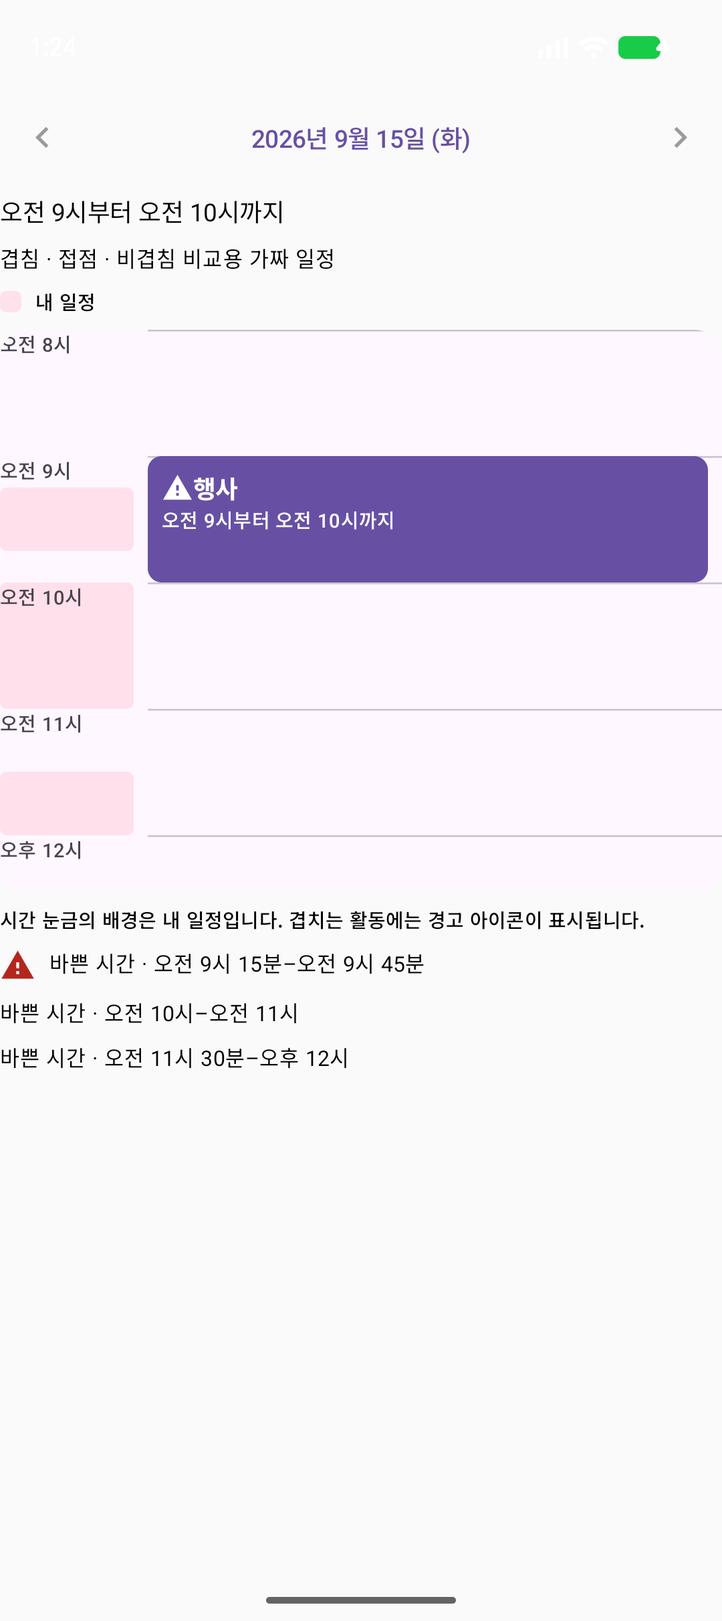
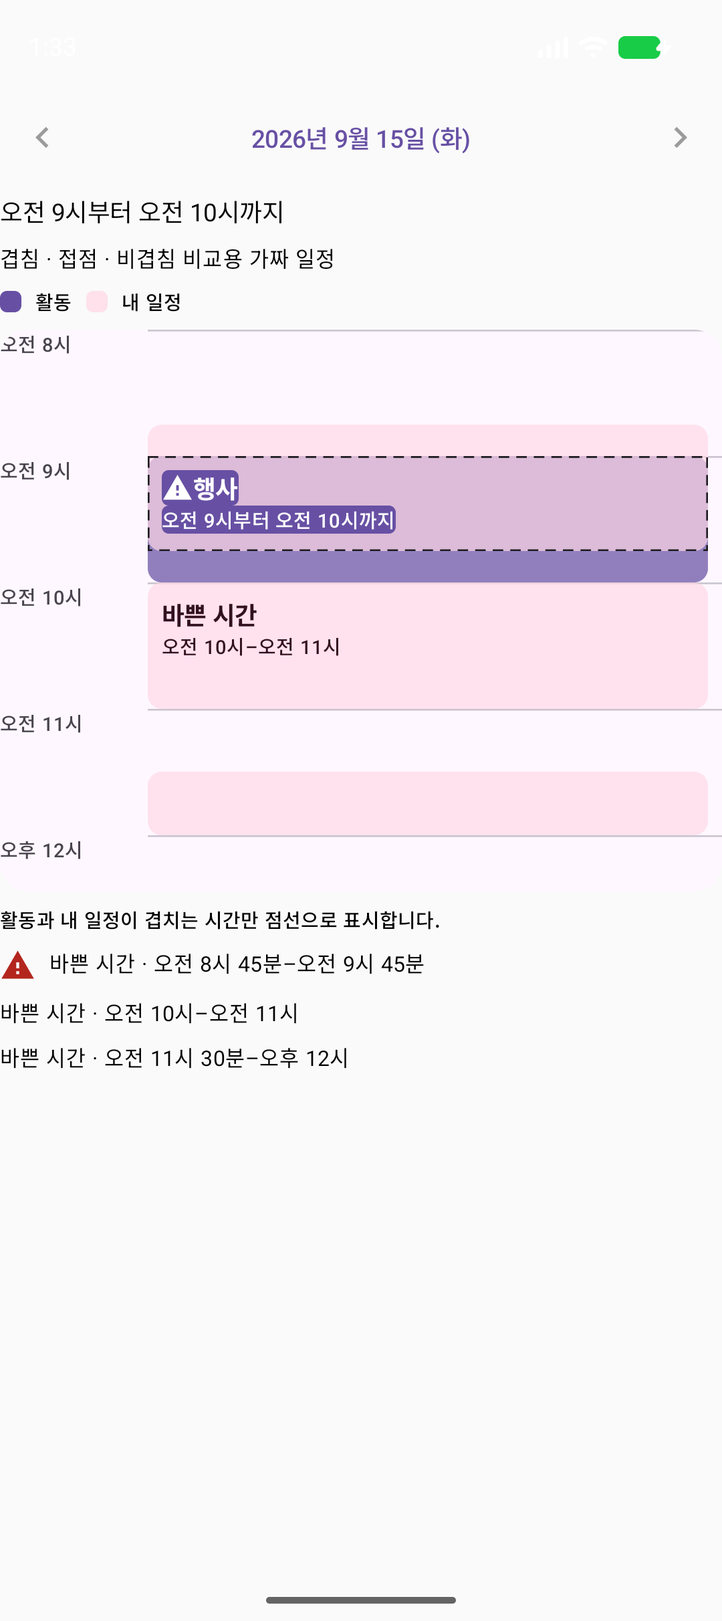
feat(android): overlay timeline colors with exact dashed intersections

diff --git a/apps/android/app/src/main/java/io/fixabley/dearby/shared/ui/TimelinePlot.kt b/apps/android/app/src/main/java/io/fixabley/dearby/shared/ui/TimelinePlot.kt
@@ -7,6 +7,7 @@ import androidx.compose.runtime.*
 import androidx.compose.ui.Alignment
 import androidx.compose.ui.Modifier
 import androidx.compose.ui.platform.LocalDensity
+import androidx.compose.ui.layout.onSizeChanged
 import androidx.compose.ui.platform.testTag
 import androidx.compose.ui.res.painterResource
 import io.fixabley.dearby.R
@@ -22,6 +23,7 @@ internal fun TimelinePlot(day: DayTimelineState, title: String, busy: List<BusyP
     val hour = 72.dp * density.fontScale
     val gutter = 84.dp // The hour label can wrap at large text instead of consuming the entire graph.
     val scroll = rememberScrollState()
+    var labelHeight by remember { mutableStateOf(80.dp * density.fontScale) }
     val actualHeight = hour * ((day.endMinute - day.startMinute) / 60f)
     val minimum = 64.dp * density.fontScale
     val enlarged = actualHeight < minimum
@@ -35,11 +37,6 @@ internal fun TimelinePlot(day: DayTimelineState, title: String, busy: List<BusyP
             val hasOverlap = busy.any { it.overlaps }
             val width = available
             Box(Modifier.fillMaxWidth().height(hour * (day.minutes / 60f) + minimum)) {
-                busy.forEach { block ->
-                    TimelineBusyBand(block, block.overlaps,
-                        Modifier.offset(y = hour * (block.startMinute / 60f)).width(gutter - Spacing.small)
-                            .height(maxOf(1.dp, hour * ((block.endMinute - block.startMinute) / 60f))))
-                }
                 day.ticks.forEach { tick ->
                     Row(Modifier.offset(y = hour * (tick.minute / 60f)).fillMaxWidth().clearAndSetSemantics {},
                         verticalAlignment = Alignment.Top) {
@@ -48,24 +45,45 @@ internal fun TimelinePlot(day: DayTimelineState, title: String, busy: List<BusyP
                         HorizontalDivider(color = MaterialTheme.colorScheme.outlineVariant)
                     }
                 }
-                Surface(color = MaterialTheme.colorScheme.primary, contentColor = MaterialTheme.colorScheme.onPrimary,
+                Surface(color = MaterialTheme.colorScheme.primary.copy(alpha = if (busy.isEmpty()) 1f else 0.72f),
                     shape = MaterialTheme.shapes.small,
                     modifier = Modifier.offset(x = gutter, y = hour * (day.startMinute / 60f))
-                        .width(width).height(maxOf(actualHeight, minimum)).testTag("timeline.block")
-                        .clearAndSetSemantics { contentDescription = "$title. ${day.description}" + (if (enlarged) ". 짧은 구간 확대 표시" else "") + if (hasOverlap) ". 기기 바쁜 시간과 겹침" else "" }) {
-                    Column(Modifier.padding(Spacing.small)) {
-                        Row(verticalAlignment = Alignment.CenterVertically) {
-                            if (hasOverlap) Icon(painterResource(R.drawable.ic_warning), null, Modifier.size(18.dp).testTag("activity.warning"))
-                            Text(title, style = MaterialTheme.typography.labelLarge, fontWeight = FontWeight.Bold,
+                        .width(width).height(maxOf(actualHeight, minimum))) {}
+                busy.forEach { block ->
+                    val top = hour * (block.startMinute / 60f)
+                    val bottom = hour * (block.endMinute / 60f)
+                    val activityTop = hour * (day.startMinute / 60f)
+                    val protectedEnd = activityTop + labelHeight + Spacing.small
+                    val labelTop = if (top < protectedEnd && bottom > activityTop) maxOf(top + Spacing.small, protectedEnd) else top + Spacing.small
+                    val labelOffset = (labelTop - top).takeIf { labelTop + 64.dp * density.fontScale <= bottom }
+                    TimelineBusyBlock(block, labelOffset, Modifier.offset(x = gutter, y = top)
+                        .width(width).height(maxOf(1.dp, bottom - top)))
+
+                }
+                Box(Modifier.offset(x = gutter, y = hour * (day.startMinute / 60f)).width(width)
+                    .testTag("timeline.block").clearAndSetSemantics {
+                        contentDescription = "$title. ${day.description}" + (if (enlarged) ". 짧은 구간 확대 표시" else "") + if (hasOverlap) ". 기기 바쁜 시간과 겹침" else ""
+                    }) {
+                    Column(Modifier.testTag("activity.label").onSizeChanged { labelHeight = with(density) { it.height.toDp() } }.padding(Spacing.small)) {
+                        Row(Modifier.background(MaterialTheme.colorScheme.primary, MaterialTheme.shapes.extraSmall), verticalAlignment = Alignment.CenterVertically) {
+                            if (hasOverlap) Icon(painterResource(R.drawable.ic_warning), null, Modifier.size(18.dp).testTag("activity.warning"), tint = MaterialTheme.colorScheme.onPrimary)
+                            Text(title, color = MaterialTheme.colorScheme.onPrimary, style = MaterialTheme.typography.labelLarge, fontWeight = FontWeight.Bold,
                                 maxLines = 2, overflow = TextOverflow.Ellipsis)
                         }
-                        Text(day.timeText, style = MaterialTheme.typography.labelSmall, maxLines = 2, overflow = TextOverflow.Ellipsis)
+                        Text(day.timeText, Modifier.background(MaterialTheme.colorScheme.primary, MaterialTheme.shapes.extraSmall), color = MaterialTheme.colorScheme.onPrimary, style = MaterialTheme.typography.labelSmall, maxLines = 2, overflow = TextOverflow.Ellipsis)
+                    }
+                }
+                busy.forEach { block ->
+                    if (block.overlapStartMinute != null && block.overlapEndMinute != null) {
+                        TimelineIntersectionOutline(block.description,
+                            Modifier.offset(x = gutter, y = hour * (block.overlapStartMinute / 60f)).width(width)
+                                .height(hour * ((block.overlapEndMinute - block.overlapStartMinute) / 60f)))
                     }
                 }
             }
         }
     }
-    if (busy.isNotEmpty()) Text("시간 눈금의 배경은 내 일정입니다. 겹치는 활동에는 경고 아이콘이 표시됩니다.", style = MaterialTheme.typography.labelSmall)
+    if (busy.isNotEmpty()) Text("활동과 내 일정이 겹치는 시간만 점선으로 표시합니다.", style = MaterialTheme.typography.labelSmall)
     if (enlarged) Text("짧은 구간은 블록을 확대해 표시합니다. 정확한 시간은 위 안내를 확인해 주세요.",
         style = MaterialTheme.typography.bodySmall, color = MaterialTheme.colorScheme.onSurfaceVariant)
 }

diff --git a/apps/android/app/src/androidTest/java/io/fixabley/dearby/BusyTimelineDisplayTest.kt b/apps/android/app/src/androidTest/java/io/fixabley/dearby/BusyTimelineDisplayTest.kt
@@ -21,7 +21,7 @@ class BusyTimelineDisplayTest {
     private fun at(time: String) = ZonedDateTime.parse("2026-09-15T$time+09:00[Asia/Seoul]").toInstant()
     @Test fun onlyPositiveIntersectionWarnsAndActivityRetainsFullWidth() {
         val interval = TimelineInterval(at("09:00:00"), at("10:00:00"), zone)
-        val busy = listOf(BusyInterval(at("09:15:00"), at("09:45:00")),
+        val busy = listOf(BusyInterval(at("08:45:00"), at("09:45:00")),
             BusyInterval(at("10:00:00"), at("11:00:00")), BusyInterval(at("11:30:00"), at("12:00:00")))
         rule.setContent { DearbyTheme(dynamicColor = false) {
             Column(Modifier.safeDrawingPadding().verticalScroll(rememberScrollState())) {
@@ -32,7 +32,12 @@ class BusyTimelineDisplayTest {
         rule.onAllNodesWithTag("activity.warning", useUnmergedTree = true).assertCountEquals(1)
         val blocks = rule.onAllNodesWithTag("busy.block").fetchSemanticsNodes()
         assertEquals(blocks[0].boundsInRoot.width, blocks[1].boundsInRoot.width, 1f)
-        assertTrue(rule.onNodeWithTag("timeline.block").fetchSemanticsNode().boundsInRoot.width > blocks[0].boundsInRoot.width * 2)
+        assertEquals(rule.onNodeWithTag("timeline.block").fetchSemanticsNode().boundsInRoot.width, blocks[0].boundsInRoot.width, 1f)
+        rule.onAllNodesWithTag("timeline.intersection").assertCountEquals(1)
+        val dashed = rule.onNodeWithTag("timeline.intersection").fetchSemanticsNode().boundsInRoot
+        assertTrue(dashed.top > blocks[0].boundsInRoot.top)
+        assertEquals(blocks[0].boundsInRoot.bottom, dashed.bottom, 1f)
+        assertEquals(blocks[0].boundsInRoot.height * 0.75f, dashed.height, 1f)
         assertEquals(blocks[1].boundsInRoot.width, blocks[2].boundsInRoot.width, 1f)
         rule.onAllNodesWithTag("busy.block")[1].assertContentDescriptionContains("활동과 겹치지 않음", substring = true)
         rule.waitForIdle()
@@ -51,6 +56,7 @@ class BusyTimelineDisplayTest {
             }
         } }
         rule.onAllNodesWithTag("activity.warning", useUnmergedTree = true).assertCountEquals(0)
+        rule.onAllNodesWithTag("timeline.intersection").assertCountEquals(0)
         rule.onNodeWithTag("busy.block").assertContentDescriptionContains("활동과 겹치지 않음", substring = true)
     }
     @Test fun dateChangeNeverShowsPreviousWindowResult() {
@@ -66,6 +72,20 @@ class BusyTimelineDisplayTest {
         rule.onNodeWithText("이전 날짜 겹침").assertDoesNotExist()
         rule.onNodeWithText("선택 날짜의 바쁜 시간을 확인하는 중이에요.").assertExists()
         rule.onAllNodesWithTag("busy.block").assertCountEquals(0)
+    }
+
+    @Test fun busyLabelCannotCoverLongActivityTitle() {
+        val title = "긴 활동 제목 · 현장 설명회와 질의응답 및 참여 방법을 함께 안내합니다"
+        val interval = TimelineInterval(at("09:00:00"), at("12:00:00"), zone)
+        rule.setContent { DearbyTheme {
+            Column(Modifier.safeDrawingPadding()) {
+                DayTimeline(interval, title, busy = BusyOverlayState("겹침", listOf(BusyInterval(at("09:00:00"), at("11:30:00")))))
+            }
+        } }
+        rule.onNodeWithTag("timeline.block").assertContentDescriptionContains(title, substring = true)
+        val activity = rule.onNodeWithTag("activity.label", useUnmergedTree = true).fetchSemanticsNode().boundsInRoot
+        val label = rule.onNodeWithTag("busy.label", useUnmergedTree = true).fetchSemanticsNode().boundsInRoot
+        assertTrue(label.top >= activity.bottom)
     }
 
 }

diff --git a/apps/android/app/src/main/java/io/fixabley/dearby/shared/ui/TimelineBusyBlock.kt b/apps/android/app/src/main/java/io/fixabley/dearby/shared/ui/TimelineBusyBlock.kt
@@ -1,0 +1,31 @@
+package io.fixabley.dearby.shared.ui
+
+import androidx.compose.foundation.layout.*
+import androidx.compose.material3.*
+import androidx.compose.runtime.Composable
+import androidx.compose.ui.Modifier
+import androidx.compose.ui.platform.testTag
+import androidx.compose.ui.semantics.*
+import androidx.compose.ui.text.font.FontWeight
+import androidx.compose.ui.text.style.TextOverflow
+import androidx.compose.ui.unit.Dp
+import androidx.compose.ui.unit.dp
+
+/** Body overlay. Labels use unoccupied vertical space; the adjacent summary is always complete. */
+@Composable
+internal fun TimelineBusyBlock(block: BusyPlotBlock, labelOffset: Dp?, modifier: Modifier) {
+    Surface(color = MaterialTheme.colorScheme.tertiaryContainer.copy(alpha = 0.68f),
+        shape = MaterialTheme.shapes.small,
+        modifier = modifier.testTag("busy.block").clearAndSetSemantics {
+            contentDescription = block.description + if (block.overlaps) ". 활동과 겹침" else ". 활동과 겹치지 않음"
+        }) {
+        labelOffset?.let { offset ->
+            Column(Modifier.padding(top = offset).testTag("busy.label").padding(horizontal = 8.dp)) {
+                Text("바쁜 시간", color = MaterialTheme.colorScheme.onTertiaryContainer,
+                    style = MaterialTheme.typography.labelLarge, fontWeight = FontWeight.Bold)
+                Text(block.timeText, color = MaterialTheme.colorScheme.onTertiaryContainer,
+                    style = MaterialTheme.typography.labelSmall, maxLines = 2, overflow = TextOverflow.Ellipsis)
+            }
+        }
+    }
+}

diff --git a/apps/android/app/src/test/java/io/fixabley/dearby/TimelineIntersectionTest.kt b/apps/android/app/src/test/java/io/fixabley/dearby/TimelineIntersectionTest.kt
@@ -1,0 +1,29 @@
+package io.fixabley.dearby
+
+import io.fixabley.dearby.shared.ui.*
+import java.time.Instant
+import org.junit.Assert.*
+import org.junit.Test
+
+class TimelineIntersectionTest {
+    private fun at(seconds: Long) = Instant.EPOCH.plusSeconds(seconds)
+    @Test fun partialAndContainingIntervalsClipOnlyTheirSharedTime() {
+        val activity = BusyInterval(at(9), at(12))
+        assertEquals(BusyInterval(at(9), at(10)), timelineIntersection(activity, BusyInterval(at(8), at(10))))
+        assertEquals(activity, timelineIntersection(activity, BusyInterval(at(8), at(13))))
+        assertEquals(BusyInterval(at(10), at(11)), timelineIntersection(activity, BusyInterval(at(10), at(11))))
+    }
+    @Test fun disjointAndTouchDoNotIntersectButNanosecondOverlapDoes() {
+        val activity = BusyInterval(at(9), at(12))
+        assertNull(timelineIntersection(activity, BusyInterval(at(12), at(13))))
+        assertNull(timelineIntersection(activity, BusyInterval(at(13), at(14))))
+        val short = BusyInterval(at(12).minusNanos(1), at(12))
+        assertEquals(short, timelineIntersection(activity, short))
+    }
+    @Test fun clippingAndUnionPreserveIntersectionAcrossMidnight() {
+        val window = BusyInterval(at(0), at(86400))
+        val union = mergedBusy(listOf(BusyInterval(at(-3600), at(3600)), BusyInterval(at(1800), at(7200))), window)
+        assertEquals(listOf(BusyInterval(at(0), at(7200))), union)
+        assertEquals(BusyInterval(at(0), at(3600)), timelineIntersection(union.single(), BusyInterval(at(-1), at(3600))))
+    }
+}

diff --git a/apps/android/app/src/main/java/io/fixabley/dearby/shared/ui/DayTimeline.kt b/apps/android/app/src/main/java/io/fixabley/dearby/shared/ui/DayTimeline.kt
@@ -36,9 +36,11 @@ internal fun DayTimeline(interval: TimelineInterval, title: String, modifier: Mo
             val time = "${koreanTime(start.toLocalTime())}–" +
                 (if (it.end == window.end) "다음 날 오전 12시" else koreanTime(end.toLocalTime()))
             val offset = if (start.offset != end.offset) " (${start.offset} → ${end.offset})" else ""
+            val intersection = timelineIntersection(it, BusyInterval(interval.start, interval.end))
+            fun minute(value: java.time.Instant) = java.time.Duration.between(dayStart, value).toNanos() / 60_000_000_000f
             BusyPlotBlock(java.time.Duration.between(dayStart, it.start).toNanos() / 60_000_000_000f,
                 java.time.Duration.between(dayStart, it.end).toNanos() / 60_000_000_000f,
-                "바쁜 시간: $time$offset. $date, 시간대 ${interval.zone.id}, 종료 시각 제외", time + offset, busyOverlaps(listOf(it), BusyInterval(interval.start, interval.end)))
+                "바쁜 시간: $time$offset. $date, 시간대 ${interval.zone.id}, 종료 시각 제외", time + offset, intersection != null, intersection?.start?.let(::minute), intersection?.end?.let(::minute))
         }
         if (currentBusy != null) TimelineLegend()
         TimelinePlot(day, title, blocks)

diff --git a/apps/android/app/src/androidTest/java/io/fixabley/dearby/BusyCalendarFlowTest.kt b/apps/android/app/src/androidTest/java/io/fixabley/dearby/BusyCalendarFlowTest.kt
@@ -30,7 +30,7 @@ class BusyCalendarFlowTest {
         override fun permission() = access
         override suspend fun read(query: BusyQuery): List<BusyInterval> {
             queries.add(query)
-            return listOf(BusyInterval(query.activity.start, minOf(query.activity.end, query.activity.start.plusSeconds(5400))))
+            return listOf(BusyInterval(query.activity.start, minOf(query.activity.end, query.activity.start.plusSeconds(9000))))
         }
     }
     private fun show(fake: Fake, dark: Boolean = false, large: Boolean = false) {
@@ -96,6 +96,7 @@ class BusyCalendarFlowTest {
         rule.onNodeWithTag("notice.detail").performScrollToNode(hasTestTag("schedule.title.0"))
         rule.onNodeWithTag("schedule.timeline.0").performScrollTo()
         rule.onAllNodesWithTag("busy.block").assertCountEquals(0)
+        rule.onAllNodesWithTag("timeline.intersection").assertCountEquals(0)
         rule.onAllNodesWithTag("activity.warning", useUnmergedTree = true).assertCountEquals(0)
         capture("hidden-$suffix")
     }

diff --git a/apps/android/app/src/main/java/io/fixabley/dearby/shared/ui/TimelineIntersectionOutline.kt b/apps/android/app/src/main/java/io/fixabley/dearby/shared/ui/TimelineIntersectionOutline.kt
@@ -1,0 +1,23 @@
+package io.fixabley.dearby.shared.ui
+
+import androidx.compose.foundation.Canvas
+import androidx.compose.material3.MaterialTheme
+import androidx.compose.runtime.Composable
+import androidx.compose.ui.Modifier
+import androidx.compose.ui.draw.clipToBounds
+import androidx.compose.ui.graphics.PathEffect
+import androidx.compose.ui.graphics.drawscope.Stroke
+import androidx.compose.ui.platform.testTag
+import androidx.compose.ui.semantics.clearAndSetSemantics
+import androidx.compose.ui.semantics.contentDescription
+import androidx.compose.ui.unit.dp
+
+@Composable
+internal fun TimelineIntersectionOutline(description: String, modifier: Modifier) {
+    val color = MaterialTheme.colorScheme.onSurface
+    Canvas(modifier.clipToBounds().testTag("timeline.intersection").clearAndSetSemantics {
+        contentDescription = "실제 겹치는 구간. $description"
+    }) {
+        drawRect(color, style = Stroke(2.dp.toPx(), pathEffect = PathEffect.dashPathEffect(floatArrayOf(6.dp.toPx(), 4.dp.toPx()))))
+    }
+}

diff --git a/apps/android/app/src/main/java/io/fixabley/dearby/shared/ui/BusyDisplayState.kt b/apps/android/app/src/main/java/io/fixabley/dearby/shared/ui/BusyDisplayState.kt
@@ -3,4 +3,4 @@ package io.fixabley.dearby.shared.ui
 internal data class BusyDisplayState(val enabled: Boolean = false, val message: String = "기기 캘린더 연결 안 됨",
     val consent: Boolean = false, val requesting: Boolean = false, val settings: Boolean = false)
 internal data class BusyOverlayState(val message: String, val intervals: List<BusyInterval> = emptyList(), val window: BusyInterval? = null)
-internal data class BusyPlotBlock(val startMinute: Float, val endMinute: Float, val description: String, val timeText: String, val overlaps: Boolean)
+internal data class BusyPlotBlock(val startMinute: Float, val endMinute: Float, val description: String, val timeText: String, val overlaps: Boolean, val overlapStartMinute: Float? = null, val overlapEndMinute: Float? = null)

diff --git a/apps/android/app/src/main/java/io/fixabley/dearby/shared/ui/TimelineLegend.kt b/apps/android/app/src/main/java/io/fixabley/dearby/shared/ui/TimelineLegend.kt
@@ -13,6 +13,8 @@ import io.fixabley.dearby.shared.ui.theme.Spacing
 @Composable
 internal fun TimelineLegend() {
     Row(horizontalArrangement = Arrangement.spacedBy(Spacing.small), verticalAlignment = Alignment.CenterVertically) {
+        Box(Modifier.size(12.dp).background(MaterialTheme.colorScheme.primary, MaterialTheme.shapes.extraSmall))
+        Text("활동", style = MaterialTheme.typography.labelSmall)
         Box(Modifier.size(12.dp).background(MaterialTheme.colorScheme.tertiaryContainer.copy(alpha = 0.75f), MaterialTheme.shapes.extraSmall))
         Text("내 일정", style = MaterialTheme.typography.labelSmall)
     }

diff --git a/apps/android/app/src/main/java/io/fixabley/dearby/shared/ui/TimelineIntersection.kt b/apps/android/app/src/main/java/io/fixabley/dearby/shared/ui/TimelineIntersection.kt
@@ -1,0 +1,8 @@
+package io.fixabley.dearby.shared.ui
+
+/** Exact half-open intersection; drawing minimum heights never participate. */
+internal fun timelineIntersection(first: BusyInterval, second: BusyInterval): BusyInterval? {
+    val start = maxOf(first.start, second.start)
+    val end = minOf(first.end, second.end)
+    return if (end > start) BusyInterval(start, end) else null
+}

diff --git a/apps/android/docs/calendar-busy/VERIFICATION.md b/apps/android/docs/calendar-busy/VERIFICATION.md
@@ -1,44 +1,41 @@
-# #10 Android 검증 · 2026-09-15
+# #10 Android 최신 시각 검증 · 2026-09-15
 
-최종 UI는 시간 눈금 뒤 내 일정 반투명 배경 + 전체 너비 활동 + 실제 교집합 경고다. PR9 이전 결과와 중간 두 열 디자인의 결과를 최신 증거로 사용하지 않는다.
+최종 형태는 **시간축 본문의 Primary 활동 + 반투명 tertiary 배색 내 일정 + 실제 교집합 구간만 점선**이다. 경고 아이콘과 ON/OFF/동의를 유지한다. 시간 gutter/우측 lane/두열 디자인의 PNG는 최신 증거에서 교체했다. 상세 날짜·요일 / 다음 줄 시간 구조를 유지하며 한국 시간 중복 라벨만 제거했다.
 
-## 이번 실행
+## 이번 후속 작업에서 실행
 
-- JVM **13개 통과**: BusySession 5, BusyInterval 4, 기존 DayTimeline 4를 이번 변경에서 재실행. 동의 취소/거절/제한/성공빈결과/조회실패/철회/백그라운드/화면종료/OFF/비협조적 지연 결과/선택일 stale/복수phase 단일세션, strict half-open overlap/merge/clip, floating 종일·서울·LA 23/25시간 DST·다른 source-zone 날짜·자정 종료를 확인했다.
-- 전용 **emulator-5556 API36.1 계측 12개 통과**: AndroidBusyProvider 3, BusyCalendarFlow 3, BusyTimelineDisplay 3, 기존 DayTimeline 3. 최종 1배 run에서 11개, 실제 system font_scale=2.0의 dark detail run에서 1개를 실행했다. 이후 VISIBLE 필터 제거 관련 provider 3개를 별도 재실행했고 통과했다(중복 합산하지 않음).
-- Provider 테스트는 in-memory SQLite 숫자 fixture/query hook만 사용한다. NULL/tentative/숨긴 캘린더 보존, free/canceled/self-declined 제외, projection 6개 숫자 필드, timed/floating 쿼리 범위, IO 스레드, null cursor 실패, CancellationSignal 전달을 검증했다.
-- UI는 fake provider/permission callback만 사용한다. OFF→동의→취소→거절에서 query=0, 허용 fake ON→활동 선택일 변경/겹침→OFF에서 gutter 배경/경고 제거를 확인했다. 신청은 비교에 등록하지 않는다. 접점·비겹침에는 경고가 없고, 짧은 활동의 확대 높이가 가짜 경고를 만들지 않는다. 날짜를 바꾸면 이전 window의 결과를 표시하지 않는다.
-- Debug APK/AndroidTest APK 빌드 성공. lintDebug **오류0 / 기존 경고12**. FSD **92파일 / self-test24 통과**. git diff --check 통과. minSdk31 및 toolchain/의존성 유지.
+- `TimelineIntersectionTest` JVM **3개 통과**: 부분교집합/포함/불포함/끝-시작 접점/나노초 양의 교집합/자정 clip 및 union. 점선 계산에 최소 시각 높이를 넣지 않는다.
+- 전용5556 계측 **8개 통과**: BusyTimelineDisplayTest 4(본문 동일 x/폭, 08:45–09:45 busy 중 09:00–09:45만 점선임을 위치/높이로 검증, 접점/short 무경고·무점선, 이전 window 숨김, 긴 활동 제목과 busy 문구의 세로영역 비중첩), BusyCalendarFlowTest 3(OFF/동의취소/fake거절, light 선택일/OFF, 실제2배 dark 선택일/OFF), DetailTimezoneTest 1(한국 라벨 없음/원본 시각 AX/Europe-London 표시 유지).
+- Debug APK 및 AndroidTest APK compile/build 성공. FSD **94파일 / self-test24 통과**, git diff --check 통과. 이번 요청은 표시 변경이므로 provider/권한 전체 suite와 lint 전체를 재실행하지 않았다.
+- 이번 변경은 Shared 표시/관련 Page의 라벨/테스트/문서만 포함한다. feature provider/session, permission, cache, favorites, source, export, map 코드는 수정하지 않았다.
 
-명령(자기 checkout):
+명령의 환경은 JAVA_HOME=/Applications/Android Studio.app/Contents/jbr/Contents/Home, ANDROID_HOME=/Users/jominjun/Library/Android/sdk, ANDROID_SERIAL=emulator-5556이다.
 
 ```sh
-JAVA_HOME='/Applications/Android Studio.app/Contents/jbr/Contents/Home' ANDROID_HOME=/Users/jominjun/Library/Android/sdk ./apps/android/gradlew -p apps/android :app:testDebugUnitTest --tests '*Busy*' --tests '*DayTimelineTest' :app:assembleDebug :app:lintDebug
-ANDROID_SERIAL=emulator-5556 ./apps/android/gradlew -p apps/android :app:connectedDebugAndroidTest -Pandroid.testInstrumentationRunnerArguments.class=<아래 클래스 또는 메서드> -Pandroid.injected.androidTest.leaveApksInstalledAfterRun=true
+./apps/android/gradlew -p apps/android :app:testDebugUnitTest --tests '*TimelineIntersectionTest' :app:assembleDebug
+./apps/android/gradlew -p apps/android :app:connectedDebugAndroidTest -Pandroid.testInstrumentationRunnerArguments.class=io.fixabley.dearby.BusyTimelineDisplayTest,io.fixabley.dearby.BusyCalendarFlowTest,io.fixabley.dearby.DetailTimezoneTest -Pandroid.injected.androidTest.leaveApksInstalledAfterRun=true
 python3 apps/android/scripts/check-fsd.py --self-test
 ```
 
-클래스: `io.fixabley.dearby.features.calendarbusy.AndroidBusyProviderTest`, `io.fixabley.dearby.BusyTimelineDisplayTest`, `io.fixabley.dearby.DayTimelineTest`; `BusyCalendarFlowTest#offConsentCancelDeniedNeverQueries`, `#selectedActivityDayOverlapLight`를 1배에서 실행하고 `#selectedActivityDayOverlapDarkLarge`는 실제 font_scale2.0에서 실행했다. 각 실행의 JAVA_HOME/ANDROID_HOME은 첫 줄과 동일하다.
+계측은 관련 클래스/메서드를 나눠 실행했다. BusyCalendarFlowTest의 dark 메서드는 실제 system font_scale=2.0으로 실행하고 1.0으로 복원했다. ModalBottomSheet에서 LocalDensity만 바꾼 캡처를 큰글자 증거로 사용하지 않았다.
 
-## 대표 PNG · 가짜 익명 일정
-
-모두 전용5556에서 실제 렌더링을 캡처했다. 큰글자 시트는 실제 system font_scale2.0을 사용했다. Compose LocalDensity만 바꾼 중간 캡처는 최종 PNG로 남기지 않았다.
+## 최신 실제 렌더링 PNG · 모두 fake provider
 
 | 상태 | 증거 |
 |---|---|
 | 연결 전 OFF | [off-light](screenshots/busy-evidence/off-light.png) |
-| 목적 안내 | [consent-light](screenshots/busy-evidence/consent-light.png) |
-| 동의 취소 | [cancel-light](screenshots/busy-evidence/cancel-light.png) |
-| fake 권한 거절 | [denied-light](screenshots/busy-evidence/denied-light.png) |
-| ON 겹침/시간눈금 배경 | [busy-light](screenshots/busy-evidence/busy-light.png) |
+| 목적 안내 / 동의 취소 / fake 거절 | [consent](screenshots/busy-evidence/consent-light.png), [cancel](screenshots/busy-evidence/cancel-light.png), [denied](screenshots/busy-evidence/denied-light.png) |
+| 본문 배색 + 점선 | [busy-light](screenshots/busy-evidence/busy-light.png) |
 | 선택일 다음날 | [next-day-light](screenshots/busy-evidence/next-day-light.png) |
 | dark 실제2배 | [busy-dark-2x](screenshots/busy-evidence/busy-dark-2x.png) |
 | dark 실제2배 다음날 | [next-day-dark-2x](screenshots/busy-evidence/next-day-dark-2x.png) |
-| 겹침09:15–09:45 / 접점10–11 / 비겹침11:30–12 | [boundaries-light](screenshots/busy-evidence/boundaries-light.png) |
-| OFF 후 활동: 배경/경고 제거 | [hidden-light](screenshots/busy-evidence/hidden-light.png) |
+| 부분교집합/접점/비겹침 | [boundaries-light](screenshots/busy-evidence/boundaries-light.png) |
+| OFF 후 블록·점선·경고 제거 | [hidden-light](screenshots/busy-evidence/hidden-light.png), [hidden-dark-2x](screenshots/busy-evidence/hidden-dark-2x.png) |
 
-## 보존 및 한계
+총11장이다. 스크롤 가능한 320dp 시간창에서는 화면 밖 시간 구간을 세로 스크롤로 읽는다. 큰글자에서 긴 활동 제목은 부모 상세의 전체 제목 및 전체 AX로 보존되며 그래프 내부는 최대2줄 표시다. 짧아 문구가 들어가지 않는 busy는 아래 한국어 요약으로 확인한다.
 
-사용자5554에 접근하지 않았다. 5556 font_scale1.0 / night=no를 복원·확인했고 favorites prefs `<map />`가 그대로다. READ_CALENDAR는 granted=false를 확인했다. 실제 OS 권한 허용, 사용자 CalendarProvider 조회, 캘린더 일정 저장/수정/삭제, Calendar 계정 설정은 하지 않았다. 거절 화면은 fake callback의 결과이며 OS 권한 대화상자 실기 검증으로 주장하지 않는다.
+## 이전 기능 검증과 한계
 
-반복 occurrence 전개는 공식 Instances 계약에 의존한다. 실제 계정의 반복/예외 일정, OEM CalendarProvider 차이, 관리형 기기의 정책 제한 UI는 미검증이다. 비교는 사용자가 선택한 활동 날짜만이며 전체 활동 참여 가능을 보장하지 않는다. 제목·장소·주최자·메모 문자열은 projection/화면/로그/디스크 캐시에 없다. OS permission popup 자체와 실제 개인 캘린더를 이용한 수동 확인은 승인된 별도 환경에서 남아 있다.
+이전 head1cd2ae6 작업의 provider/session 포함 JVM13·계측12·lint 오류0/기존경고12는 그 시점 결과이며 이번 시각 변경에서 새로 실행한 결과로 주장하지 않는다. Instances recurrence/ALL_DAY/SQL/cancellation 계약은 [설계 문서](README.md)에 유지되어 있다.
+
+사용자5554에 접근하지 않았고 전용5556 font_scale1.0 / night=no 및 favorites prefs `<map />` 보존·복원을 확인했다. 실제 OS 권한 허용·개인 CalendarProvider 조회·Calendar Save·계정설정은 하지 않았다. 계측의 거절은 fake callback UI이며 실제 OS 권한 대화상자 검증이 아니다. 실제 반복예외/OEM/관리형기기 및 개인 캘린더 실기 확인은 계속 미검증이다. 날짜/시간의 sourcezone·precision/불확실성 및 Calendar export는 바꾸지 않았다.

diff --git a/apps/android/docs/calendar-busy/README.md b/apps/android/docs/calendar-busy/README.md
@@ -19,10 +19,12 @@ ALL_DAY의 UTC midnight는 floating 날짜다. 별도 UTC-date query 후 기기 
 - App `NoticeDetailRoute`가 단일 BusySession, OS RequestPermission launcher, ON_RESUME/ON_STOP/종료를 조립한다. 기본 OFF이며 동의 Continue에서만 READ_CALENDAR를 요청한다. 이미 허용되었다면 즉시 켜고, OFF는 OS 권한을 철회하지 않고 조회/인메모리 결과를 제거한다.
 - Page `NoticeDetailSheet`는 BusyDisplayState, phase별 BusyOverlayState, toggle/continue/settings/retry/date 콜백을 받는다. `NoticeScheduleSection`만 활동의 LocalDate를 전달한다. 신청 DayTimeline에는 busy나 조회 콜백을 전달하지 않는다.
 - Shared `BusyCalendarControl`은 native M3 Switch/TextButton, `CalendarConsentDialog`는 page의 M3 AlertDialog다. 권한/OS query는 Shared/Page에 없다.
-- `DayTimeline(interval, title, busy, onDate)`는 선택 날짜가 결과 window와 다르면 이전 결과를 숨긴다. `TimelineBusyBand`는 hour gutter 뒤 반투명 tertiaryContainer, tick text/grid는 그 위에 그린다. 활동은 primary 전체 너비를 유지한다. 활동과 양의 길이 교집합일 때만 Material warning 아이콘을 붙이며 접점/시각적 확대는 경고를 만들지 않는다.
-- `TimelineLegend`는 왼쪽 상단 내 일정 표식, `TimelineBusySummary`는 한국어 정확한 시각과 경고/접근성 안내다. 아주 짧은 busy는 최소 선 굵기로 보이고 정확한 구간은 요약과 semantics에서 읽는다. 타이틀·장소·개인 문자열은 없다. 겹친 busy끼리는 union하여 시간 위치를 유지한다.
+- `DayTimeline(interval, title, busy, onDate)`는 선택 날짜가 결과 window와 다르면 이전 결과를 숨긴다. 시간 gutter는 눈금만 표시하며 본문에 Primary 활동과 반투명 tertiaryContainer 바쁜 시간 블록을 겹친다.
+- `timelineIntersection`은 원본 Instant의 반열린 교집합을 계산한다. `TimelineIntersectionOutline`은 교집합 높이에만 Canvas dashed stroke를 clip하고, 최소 시각 높이를 계산에 사용하지 않는다. 경고 아이콘도 실제 양의 길이 교집합에만 붙는다.
+- `TimelineBusyBlock`은 제목 없는 바쁜 시간/한국어 시각을 표시한다. 활동 제목과 시각은 native Primary/onPrimary로 보호하고 측정된 제목 높이 이후의 빈 공간에 busy 문구를 배치한다. 공간이 없는 짧은 구간은 아래 `TimelineBusySummary` 및 AX로 정확한 정보를 제공한다. busy끼리 union 계약은 유지한다.
+- `TimelineLegend`는 활동/내 일정 배색을 설명한다. OFF는 본문 busy·점선·경고를 함께 제거한다. [상세 날짜/시간](DATE-PRESENTATION.md)은 날짜/요일 다음 줄 시간 구조를 유지하고 한국 시간 중복 라벨만 생략한다.
 
-Compose M3에는 읽기 전용 하루 시간축이 없어 기존의 좁은 custom plot에 배경 구간만 추가했다. native colors/typography/shapes/icons를 유지하고 SDK/라이브러리를 추가·업그레이드하지 않았다. [Google Material warning 원본](https://github.com/google/material-design-icons/blob/master/src/alert/warning/materialicons/24px.svg), [runtime permission 안내](https://developer.android.com/training/permissions/requesting), [정책에 의한 권한 제한 확인](https://developer.android.com/reference/android/content/pm/PackageManager#isPermissionRevokedByPolicy(java.lang.String,%20java.lang.String))을 참고했다.
+Compose M3에는 읽기 전용 하루 시간축이 없어 기존의 좁은 custom plot에 배색 오버레이와 정확한 교집합 점선을 추가했다. native colors/typography/shapes/icons를 유지하고 SDK/라이브러리를 추가·업그레이드하지 않았다. [Google Material warning 원본](https://github.com/google/material-design-icons/blob/master/src/alert/warning/materialicons/24px.svg), [runtime permission 안내](https://developer.android.com/training/permissions/requesting), [정책에 의한 권한 제한 확인](https://developer.android.com/reference/android/content/pm/PackageManager#isPermissionRevokedByPolicy(java.lang.String,%20java.lang.String))을 참고했다.
 
 Calendar의 VISIBLE은 UI 표시 선택이지 free/busy가 아니므로 숨긴 캘린더도 조회 가능한 바쁜 시간에는 포함한다. SQL fixture의 visible=0 행도 유지되는지 검증한다. 명시적 availability/status/self-status 제외 규칙만 적용한다.
 
